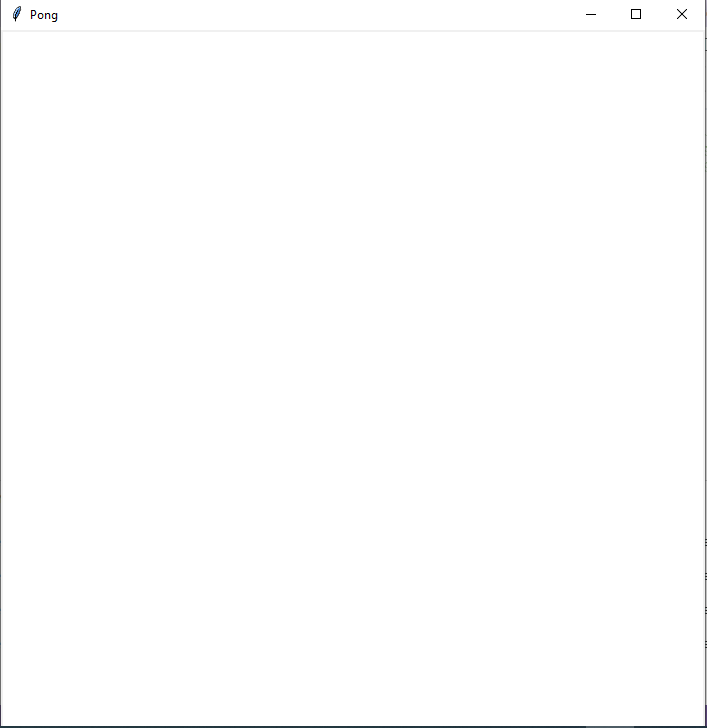
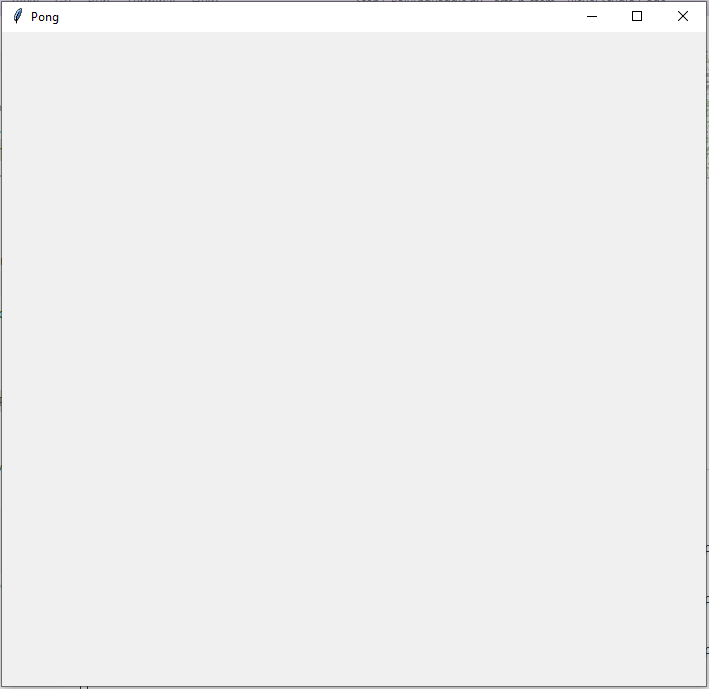
Fixed diagram

Changed region(s): [[0.0, 0.0, 1.0, 1.0], [0.0, 0.0, 0.0934, 0.0305]]

diff --git a/pages/pong/pong.md b/pages/pong/pong.md
@@ -45,7 +45,7 @@ tk.mainloop()
 
 A small window looking something like this should appear.
 
-![Just the root](https://github.com/ysthakur/arts-n-stem/blob/master/images/1-0_JustRoot.PNG?raw=true)
+![Just the root](https://github.com/ysthakur/arts-n-stem/blob/master/images/pong/1-0_JustRoot.PNG?raw=true)
 
 <br/>
 
@@ -55,7 +55,7 @@ Now we'll need a canvas to draw the paddles and the ball on. For that, you'll ha
 canvas = tk.Canvas(
     root,
     width=700,
-    height=700,
+    height=650,
 )
 
 canvas.pack()
@@ -63,7 +63,12 @@ canvas.pack()
 
 This creates a canvas whose master is `root` with the specified width and height, and `canvas.pack()` adds that canvas to the window. Try running your program again. This time, a white square (bigger than the window last time) should appear.
 
-![Default canvas](https://github.com/ysthakur/arts-n-stem/blob/master/images/1-1_DefaultCanvas.PNG?raw=true)
+<details>
+  <summary>Why are the width and height different?</summary>
+  Tkinter uses text units by default instead of pixels for width, height, etc. Therefore, the canvas above is not 700 pixels high and 700 pixels long, it is 650 letters high and 700 letters wide. You can change it according to your own computer's screen and your preferences.
+</details>
+
+![Default canvas](https://github.com/ysthakur/arts-n-stem/blob/master/images/pong/1-1_DefaultCanvas.PNG?raw=true)
 
 You can customize this canvas as you want. Try setting and playing around with the width, height, [background color](https://www.tutorialspoint.com/python/tk_colors.htm) (with `bg` or `background`), border width (with `bd` or `borderwidth`), relief (with `relief`), and other options. [Here](https://effbot.org/tkinterbook/canvas.htm#Tkinter.Canvas.config-method) is a list of the options you can pass in (it's for a different function, but it should work for the `Canvas` constructor too).
 
@@ -85,9 +90,23 @@ canvas = tk.Canvas(
 
 It looks like this:
 
-![Customized canvas](https://github.com/ysthakur/arts-n-stem/blob/master/images/1-2_CustomizedCanvas.PNG?raw=true)
+![Customized canvas](https://github.com/ysthakur/arts-n-stem/blob/master/images/pong/1-2_CustomizedCanvas.PNG?raw=true)
 
-It doesn't look that great, so I think I'll just go back to that first canvas, but with a black background (using `bg='black'`). I'd suggest doing the same, just so that there aren't any problems with hidden widgets later. You should, however, tweak the settings if the game doesn't work properly on your computer, e.g. the width and height of the canvas will need to be set differently depending on your computer.
+It doesn't look that great, so I think I'll just go back to that first canvas, but with a black background (using `bg='black'`). You can tweak the settings if the game doesn't work properly on your computer, e.g. the width and height of the canvas will need to be set differently depending on your computer.
+
+We're going to need to know the canvas's width and height later, so let's store them in two variables.
+
+```python
+canvas_width = 700
+canvas_height = 700
+
+canvas = tk.Canvas(
+    root,
+    width=canvas_width,
+    height=canvas_height,
+    bg="black",
+)
+```
 
 <br/>
 
@@ -113,16 +132,72 @@ After that, the actual label, which is a `tk.Label` object, has to be created. I
 
 `label.pack()`, like `canvas.pack()`, adds the label to the window. After that, `label.place_configure` sets the position of the label. I used 350 because it's half of 700, the canvas width. Doing `anchor="center"` means that the given `x` and `y` coordinates are where the center of the label will be. This is the result:
 
-![Label](https://github.com/ysthakur/arts-n-stem/blob/master/images/1-3_HelloWorldLabel.PNG?raw=true)
+![Label](https://github.com/ysthakur/arts-n-stem/blob/master/images/pong/1-3_HelloWorldLabel.PNG?raw=true)
 
-Again, try messing with the colors. See what happens when the background and foreground of the label are the same and find a color combination you like.
+Hard coding the label's position isn't nice, though. What if you make the canvas thinner or wider so that the label is no longer centered? The x-coordinate of the label, at least, should be dependent on the width of the canvas. Let's calculate `x_center` and `y_center`, which make up the position of the center of the canvas.
+
+```python
+x_center = canvas_width / 2
+y_center = canvas_height / 2
+```
+
+Now we can use `x_center` while setting the label's position. Try changing the width of the canvas. You'll notice now that the "Hello World" label always stays in the center.
+
+```python
+label.place_configure(x=x_center, y=200, anchor="center")
+```
+
+Again, try messing with the colors, size, etc. See what happens when the background and foreground of the label are the same and find a color combination you like.
 
 <br/>
 
 Now for the paddles. We want 2 paddles on either side, colored differently (I'm going to pick blue and red), so it should look like this (let's keep the "Hello world" label as is for now):
 
-![Paddles](https://github.com/ysthakur/arts-n-stem/blob/master/images/1-4_Paddles.PNG?raw=true)
+![Paddles](https://github.com/ysthakur/arts-n-stem/blob/master/images/pong/1-4_Paddles.PNG?raw=true)
 
-The result will look something like this
+We can use the `create_rectangle` function on our canvas to create these paddles. First, though, let's define 2 variables representing the paddles' height and width.
 
-![Step 1](https://github.com/ysthakur/arts-n-stem/blob/master/images/1BallAndPaddle.PNG?raw=true)
+```python
+paddle_height = 200
+paddle_width = 50
+```
+
+To create a rectangle, you need to give tkinter the coordinates of its top left corner and its bottom right corner. If you don't know how the coordinates system works in computer graphics, see [this](coordinates) about how they work.
+
+Let's start with the x-coordinates, which are easier to find. The left edge of the left paddle is at `x = 0` because it's right on the border. We know the right edge is `50` (or whatever `paddle_width` is) text units from the left edge. To find the x-coordinate of the right edge of the left paddle, you just need to add the paddle width (`x = 0 + paddle_width = paddle_width`).
+
+We know the right edge of the right paddle is also on the right edge of the canvas, which is `canvas_width` units from the left edge of the canvas. The x-coordinate of the left edge of the canvas is `0`, the x-coordinate of both the right edge of the canvas and the right edge of the right paddle is `canvas_width`.
+
+The y-coordinates of the 2 paddles will stay the same, since they'll move up and down to hit the ball. However, they both start off at the center, so we can use that to calculate their initial positions. This diagram can help determine what the y-coordinates should be:
+
+![Paddle y-coordinate diagram](https://github.com/ysthakur/arts-n-stem/blob/master/images/pong/1-5_PaddleY.PNG?raw=true)
+
+The yellow line goes through the middle of the paddle and the canvas, since the paddles start out centered on the board. From this beautiful handmade diagram, you can see that the top edge of the paddles is `paddle_height / 2` units above the yellow center line, and the bottom edge is `paddle_height / 2` units below it. The y position of that center line is `y_center` (which we calculated earlier), which means the top edge is at `y_center - paddle_height / 2` and the bottom edge is at `y_center + paddle_height / 2`.
+
+Now that we know everything there is to know about the paddles, let's draw them:
+
+```python
+left_paddle_id = canvas.create_rectangle(
+    0,                            #x1
+    y_center - paddle_height / 2, #y1
+    0 + paddle_width,             #x2
+    y_center + paddle_height / 2, #y2
+    fill='blue',
+)
+
+right_paddle_id = canvas.create_rectangle(
+    canvas_width - paddle_width,
+    y_center - paddle_height / 2,
+    canvas_width,
+    y_center + paddle_height / 2,
+    fill='red',
+)
+```
+
+The `create_rectangle` method returns an id so that we can move our paddles later on. Later on, if we want to move one of the paddles, we can provide that id to a function that does so.
+
+The result will look something like this:
+
+
+
+![Step 1](https://github.com/ysthakur/arts-n-stem/blob/master/images/pong/1BallAndPaddle.PNG?raw=true)

diff --git a/pages/pong/coordinates.md b/pages/pong/coordinates.md
@@ -1,0 +1,4 @@
+---
+layout: page
+title: A Note on Coordinates
+---
